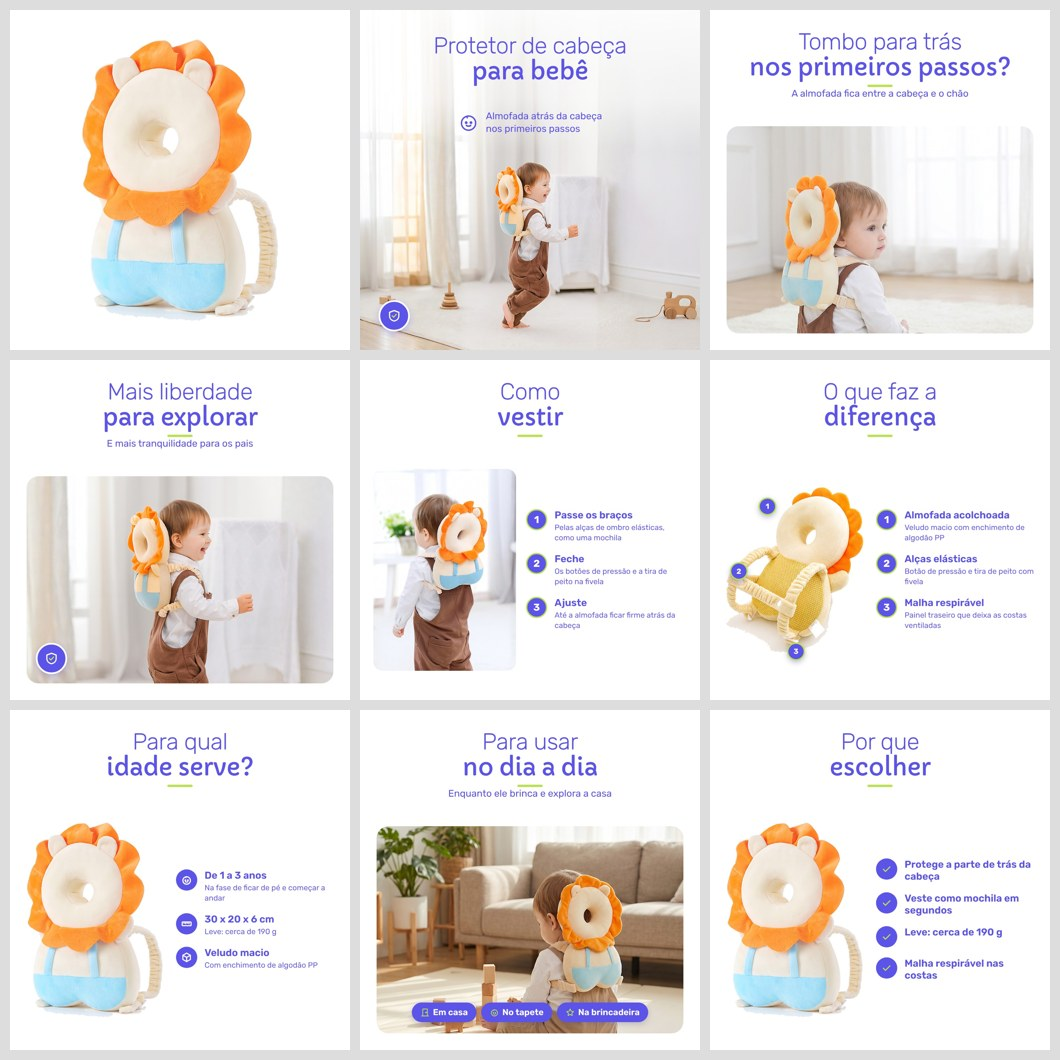
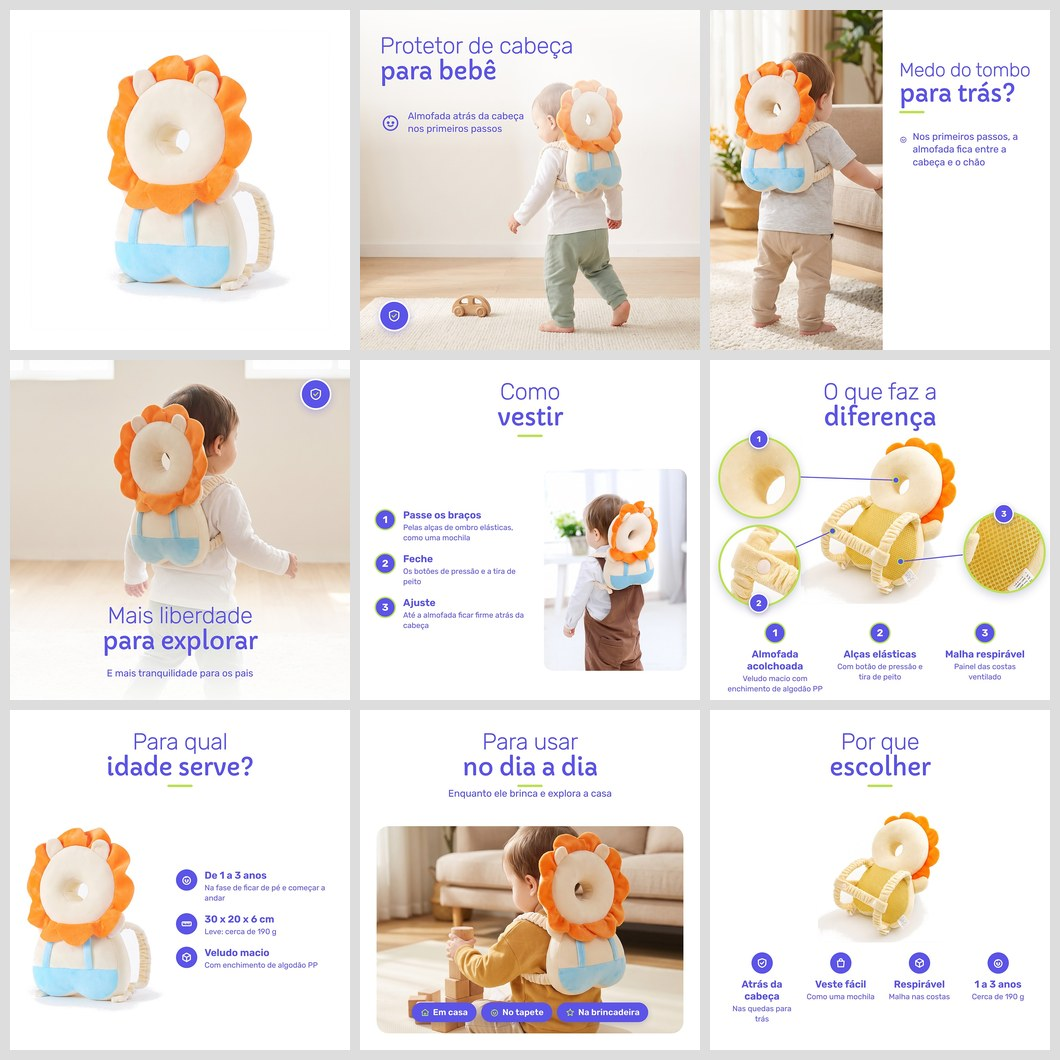
protetor-cabeca: galeria v2 (cenas pro 2K, lupas, layouts variados)
Claude-Session: https://claude.ai/code/session_01NQNCcfvWM9YeUXoB3Kn9Nc

diff --git a/protetor-cabeca/ficha-visual.md b/protetor-cabeca/ficha-visual.md
@@ -35,3 +35,14 @@
 - v-08-cena (ref loja 01 recortada): aprovado → 08.
 - v-02-uso e v-02-uso-b (ref loja 05): REPROVADOS — a IA virou o produto (malha para fora) e trocou a criança.
 - v-06-detalhe (ref loja 06): REPROVADO — redesenhou as alças. Usada a foto da loja com fundo limpo (detalhe-branco.png).
+
+## Refação v2 (19/10/2026, noite) — padrão do aspirador
+- Pedido do dono: refazer no padrão v2 (cenas geradas do zero, lupas na 06, um layout por imagem).
+- Cenas novas no pro 2K com `--ref` = capa de estúdio 2K (p-01-capa-ex) e `--example` = foto real da criança de costas (e-loja-06) só para mostrar como se veste:
+  - v2-02-hero-b → 02 (hero, corpo inteiro, parede lisa em cima) ✔
+  - v2-02-hero → 04 (overlay; produto grande em cima, título embaixo) ✔ (reprovada como hero: produto no terço de cima)
+  - v2-03-problema → 03 (split, de pé apoiado no sofá) ✔
+  - v2-08-cena → 08 (card, sentado com blocos) ✔
+  - v2-04-overlay → não usada (criança pequena, primeiro plano desfocado)
+- Fotos reaproveitadas da rodada anterior (já melhoradas no pro 2K): capa p-01-capa-ex (01, 07), e-loja-06 (05, criança de costas com as alças) e e-loja-05 (06 com lupas e 09). A vista de costas gerada (p-06-detalhe) foi descartada: o Gemini tirou a tira de peito.
+- Custo desta rodada: 5 gerações pro 2K (4 iniciais podem ter sido cobradas duas vezes — a primeira tentativa em segundo plano foi interrompida).
